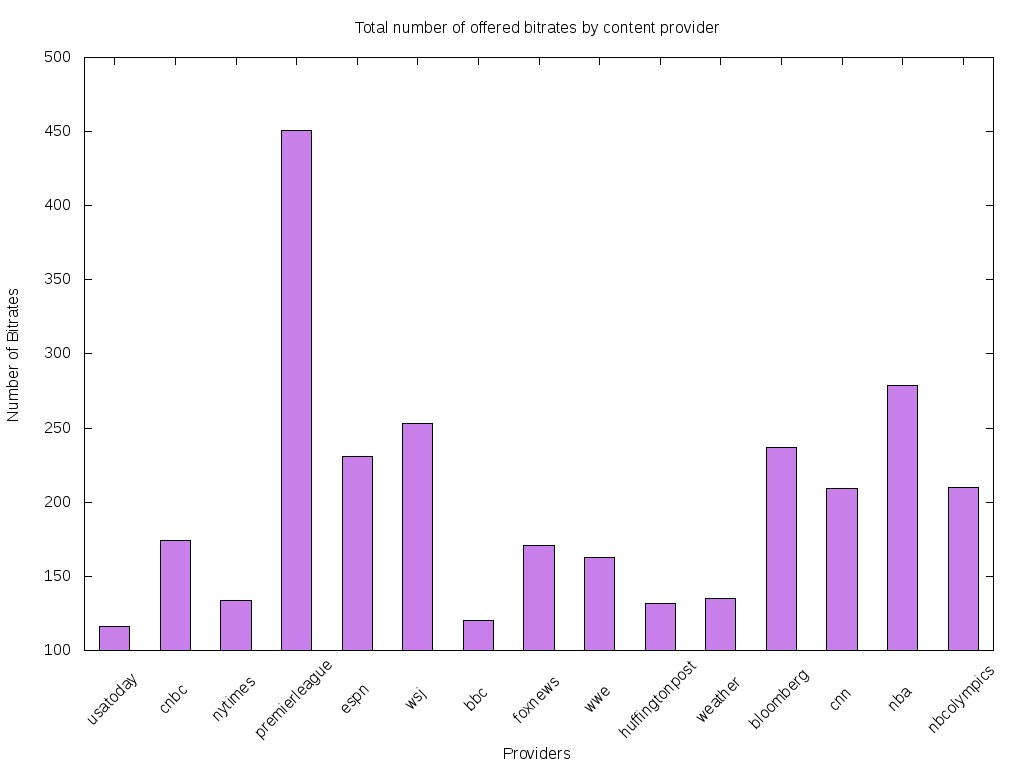
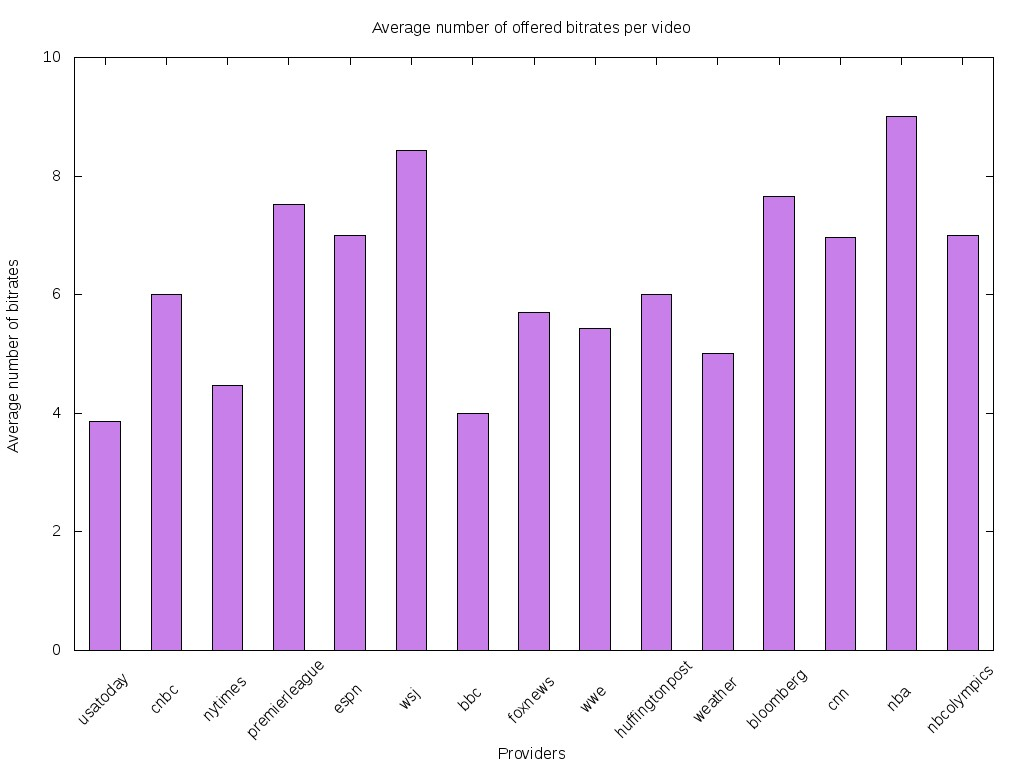
Averate number of bitrates

diff --git a/analysis/analysis.py b/analysis/analysis.py
@@ -8,10 +8,11 @@ from ipwhois import IPWhois
 
 def create_bitrate_bar_plot(provider_info):
     with open('plot_inputs/bitrate_bar_plot.in', 'w+') as g:
-        g.write("#seq provider bitrate_num\n")
+        g.write("#seq provider avg_bitrate_num\n")
         counter = 1
         for provider in provider_info:
-            g.write("%d %s %d\n" % (counter, provider, len(provider_info[provider]['bitrates_total'])))
+            avg_num_of_bitrates = 1.0*len(provider_info[provider]['bitrates_total'])/(1.0*len(provider_info[provider]['bitrates_list']))
+            g.write("%d %s %0.2f\n" % (counter, provider, avg_num_of_bitrates))
             counter += 1
     return
 
